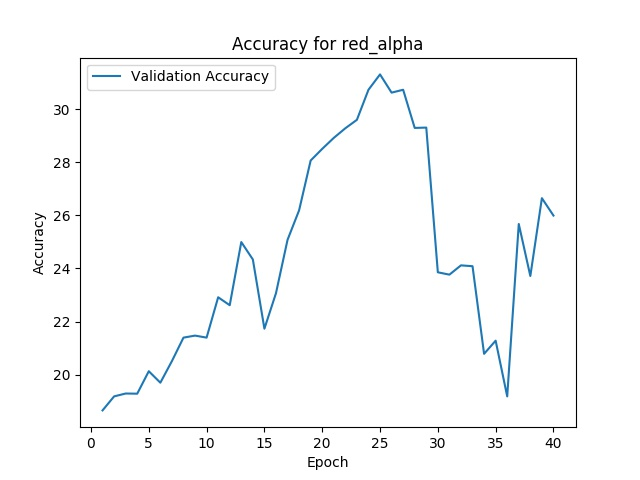
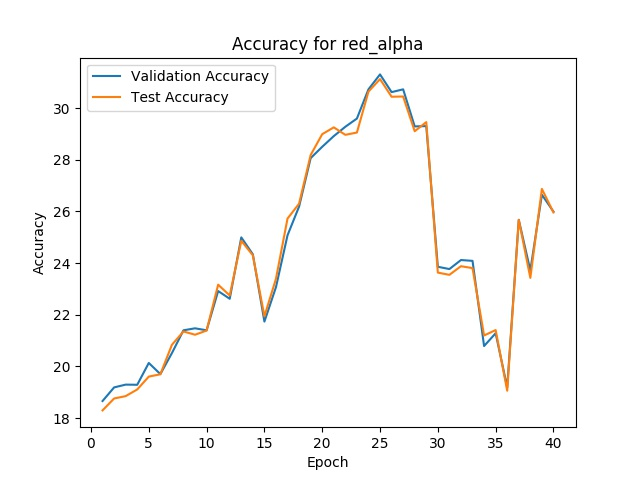
new code for preprocessing

diff --git a/Models/Main.py b/Models/Main.py
@@ -3,7 +3,6 @@ import numpy as np
 os.environ["CUDA_VISIBLE_DEVICES"] = os.environ['SGE_GPU']
 import tensorflow as tf
 from PIL import Image
-from utils_preprocessing import standardize
 from utils_training import train, predict, save, load
 from utils_NN import NeuralNetworks
 
@@ -15,14 +14,15 @@ config.allow_soft_placement = True #If an operation is not defined in the defaul
 ##############################################################################
 # Which dataset to use?
 # call_folder = '/scratch_net/biwidl102/dariopa/Data_32_32/'
-call_folder = '/scratch_net/biwidl102/dariopa/Data_150_150/'
+# call_folder = '/scratch_net/biwidl102/dariopa/Data_150_150/'
 # call_folder = '/scratch_net/biwidl102/dariopa/Data_150_150_5_classes/'
 # call_folder = '/scratch_net/biwidl102/dariopa/Data_224_224/'
 # call_folder = '/scratch_net/biwidl102/dariopa/Data_224_224_big/'
 # call_folder = '/scratch_net/biwidl102/dariopa/Data_224_224_5_classes/'
+call_folder = '/scratch_net/biwidl102/dariopa/Data_150_150_preprocessed/'
 
 # In which folder to store images?
-store_folder = './model_r_alpha_10_classes_VGG16_150_standardized/' 
+store_folder = './model_r_alpha_10_classes_VGG16_150_normalized/' 
 if not os.path.isdir(store_folder):
     os.makedirs(store_folder)
 
@@ -148,7 +148,6 @@ with tf.Session(graph=g2, config=config) as sess:
 
     for i in range(len(X_test)):
         X[0, :, :, :] = np.array(Image.open(str(X_test[i])))[:, :, k:(k+1)]
-        X = standardize(X)
         y_pred[i] = predict(sess, X, return_proba=False)
     test_acc = 100*np.sum((y_pred == y_test)/len(y_test))
     print('Test Acc: %7.3f%%' % test_acc)
@@ -163,7 +162,6 @@ with tf.Session(graph=g2, config=config) as sess:
 
     for i in range(len(X_test)):
         X[0, :, :, :] = np.array(Image.open(str(X_test[i])))[:, :, k:(k+1)]
-        X = standardize(X)
         y_pred_proba[i] = predict(sess, X, return_proba=True)
     print(y_pred_proba)
     np.save(os.path.join(store_folder, channel + '_' + parameter + '_pred_proba.npy'), y_pred_proba)

diff --git a/Models/Create_Data.py b/Models/Create_Data.py
@@ -1,10 +1,8 @@
 import numpy as np
 from utils_synthetic_data import Generate, Split
 
-# Generate images?
-generate = True
-# Preprocess data?
-split = True
+# Preprocess images?
+preprocess = True
 
 # call_folder = '/home/dario/Documents/SemThes_Local/Images_RAD/'
 call_folder = '/scratch_net/biwidl102/dariopa/Images_RAD/'
@@ -12,15 +10,16 @@ call_folder = '/scratch_net/biwidl102/dariopa/Images_RAD/'
 # store_folder = '/home/dario/Documents/SemThes_Local/Data_150_150'
 
 # store_folder = '/scratch_net/biwidl102/dariopa/Data_150_150'
-store_folder = '/scratch_net/biwidl102/dariopa/Data_224_224_big'
+# store_folder = '/scratch_net/biwidl102/dariopa/Data_224_224_big'
+store_folder = '/scratch_net/biwidl102/dariopa/Data_150_150_preprocessed'
 
 # FOR IMAGE GENERATION ----------------------
 # Batch size of images
 X_shape = 224
 Y_shape = 224
 
-# alpha = np.array([[0.501, 0.51, 0.52, 0.53, 0.54, 0.55, 0.56, 0.57, 0.58, 0.59, 0.599]])
-alpha = np.array([[0.501, 0.505, 0.51, 0.515, 0.52, 05.25, 0.53, 05.35, 0.54, 0.545, 0.55, 0.555, 0.56, 0.565, 0.57, 0.575, 0.58, 0.585, 0.59, 0.595, 0.599]])
+alpha = np.array([[0.501, 0.51, 0.52, 0.53, 0.54, 0.55, 0.56, 0.57, 0.58, 0.59, 0.599]])
+# alpha = np.array([[0.501, 0.505, 0.51, 0.515, 0.52, 05.25, 0.53, 05.35, 0.54, 0.545, 0.55, 0.555, 0.56, 0.565, 0.57, 0.575, 0.58, 0.585, 0.59, 0.595, 0.599]])
 r_mean = 615
 g_mean = 530
 b_mean = 465
@@ -38,9 +37,7 @@ Train_split = 8./10
 Val_split = 1./10
 Test_split = 1./10
 
-if generate == True:
-    print('Generating images')
-    Generate(call_folder, store_folder, X_shape, Y_shape, alpha, r_mean, g_mean, b_mean, sigma, classes)
-if split == True:
-    print('\nPreprocess Data')
-    Split(store_folder, use_data, Train_split, Val_split, Test_split)
+print('Generating images')
+Generate(call_folder, store_folder, X_shape, Y_shape, alpha, r_mean, g_mean, b_mean, sigma, classes, preprocessing=preprocess)
+print('\nPreprocess Data')
+Split(store_folder, use_data, Train_split, Val_split, Test_split)

diff --git a/Models/utils_synthetic_data.py b/Models/utils_synthetic_data.py
@@ -8,8 +8,9 @@ import math
 import cv2
 from PIL import Image
 from sklearn.utils import shuffle
+from utils_preprocessing import scale, norm
 
-def Generate(call_folder, store_folder, X_shape, Y_shape, alpha, r_mean, g_mean, b_mean, sigma, classes):
+def Generate(call_folder, store_folder, X_shape, Y_shape, alpha, r_mean, g_mean, b_mean, sigma, classes, preprocessing=True):
     _, nr_param = alpha.shape
     nr_hyp_images = len(fnmatch.filter(os.listdir(call_folder), '*.mat'))
     batch_counter = 1
@@ -50,11 +51,15 @@ def Generate(call_folder, store_folder, X_shape, Y_shape, alpha, r_mean, g_mean,
             I_image = np.swapaxes(I_image, 1, 2)
             I_image[I_image > 1] = 1
 
+            if preprocessing == True:
+                I_image = norm(I_image)
+                I_image = scale(I_image)
+
             # Now store batches of Image!
             for i in range(0,X_window):
                 for j in range (0,Y_window):
                     I_image_batch = I_image[(0 + i * X_shape):(i * X_shape + X_shape), (0 + j * Y_shape):(j * Y_shape + Y_shape), :]
-                    scipy.misc.toimage(I_image_batch, cmin=0, cmax=1).save(os.path.join(store_folder + '/Images/', str(batch_counter) + '.jpg'))
+                    scipy.misc.toimage(I_image_batch, cmin=0., cmax=1.).save(os.path.join(store_folder + '/Images/', str(batch_counter) + '.jpg'))
 
                     # Fill CSS Array
                     CSS[batch_counter - 1, :] = [alpha[0, counter], sigma]

diff --git a/Models/utils_training.py b/Models/utils_training.py
@@ -5,7 +5,7 @@ import tensorflow as tf
 from sklearn.utils import shuffle
 from PIL import Image
 import time
-from utils_preprocessing import standardize
+
 
 def save(saver, sess, epoch, path, accuracy):
     if epoch == 1:
@@ -32,7 +32,6 @@ def batch_generator(X_train, y_train, batch, i, row, col, channel, loops):
     
     for k in range(0, batch_size):
         img = np.array(Image.open(str(X_train[k + i * batch])))[:, :, channel:(channel+1)]
-        img = standardize(img)
         X_send[k, :, :, :] = img
     y_send = y_train[i * batch:(i + 1) * batch]
 
@@ -83,7 +82,6 @@ def train(path, sess, epochs, channel, training_set, validation_set, test_set,
 
             for i in range(len(X_data)):
                 X[0, :, :, :] = np.array(Image.open(str(X_data[i])))[:, :, channel:(channel+1)]
-                X = standardize(X)
                 y_pred[i] = predict(sess, X, return_proba=False)
             valid_acc = 100*np.sum((y_pred == y_data)/len(y_data))
             val_accuracy_plot.append(valid_acc)
@@ -100,7 +98,6 @@ def train(path, sess, epochs, channel, training_set, validation_set, test_set,
 
             for i in range(len(X_data)):
                 X[0, :, :, :] = np.array(Image.open(str(X_data[i])))[:, :, channel:(channel+1)]
-                X = standardize(X)
                 y_pred[i] = predict(sess, X, return_proba=False)
             test_acc = 100*np.sum((y_pred == y_data)/len(y_data))
             test_accuracy_plot.append(test_acc)

diff --git a/Models/Postprocess_Data.py b/Models/Postprocess_Data.py
@@ -21,7 +21,7 @@ call_folder = '/home/dario/Desktop/SemThes/Models/model_r_alpha_10_classes_VGG16
 
 avg_loss_plot = np.load(call_folder + channel + '_' + parameter + '_avg_loss_plot.npy')
 val_accuracy_plot = np.load(call_folder + channel + '_' + parameter + '_val_accuracy_plot.npy')
-# test_accuracy_plot = np.load(call_folder + channel + '_' + parameter + '_test_accuracy_plot.npy')
+test_accuracy_plot = np.load(call_folder + channel + '_' + parameter + '_test_accuracy_plot.npy')
 
 plt.figure(1)
 plt.plot(range(1, len(avg_loss_plot) + 1), avg_loss_plot)
@@ -32,7 +32,7 @@ plt.savefig(call_folder + channel + '_' + parameter + '_TrainLoss.jpg')
 
 plt.figure(2)
 plt.plot(range(1, len(val_accuracy_plot) + 1), val_accuracy_plot, label='Validation Accuracy')
-# plt.plot(range(1, len(test_accuracy_plot) + 1), test_accuracy_plot, label='Test Accuracy')
+plt.plot(range(1, len(test_accuracy_plot) + 1), test_accuracy_plot, label='Test Accuracy')
 plt.title('Accuracy for ' + channel + '_' + parameter)
 plt.xlabel('Epoch')
 plt.ylabel('Accuracy')

diff --git a/Models/utils_preprocessing.py b/Models/utils_preprocessing.py
@@ -1,5 +1,19 @@
 import numpy as np
+import cv2 as cv
+from sklearn.preprocessing import Normalizer
+from sklearn.preprocessing import MinMaxScaler
+
 
 def standardize(X_data):
     X_data = (X_data - np.mean(X_data)) / np.std(X_data)
+    return X_data
+    
+def norm(X_data):
+    for i in range(3):
+        X_data[:, :, i] = Normalizer().fit_transform(X_data[:, :, i])
+    return X_data
+
+def scale(X_data):
+    for i in range(3):
+        X_data[:, :, i] = MinMaxScaler().fit_transform(X_data[:, :, i])
     return X_data
